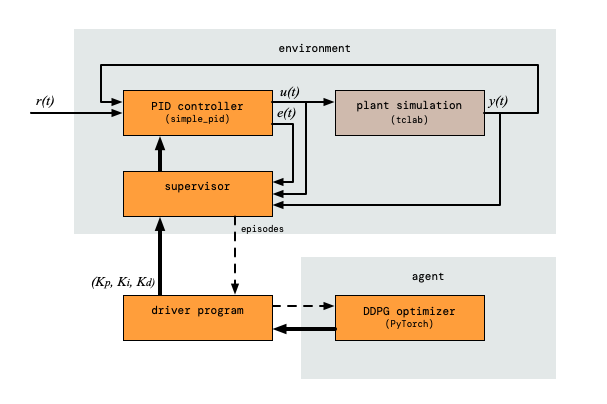
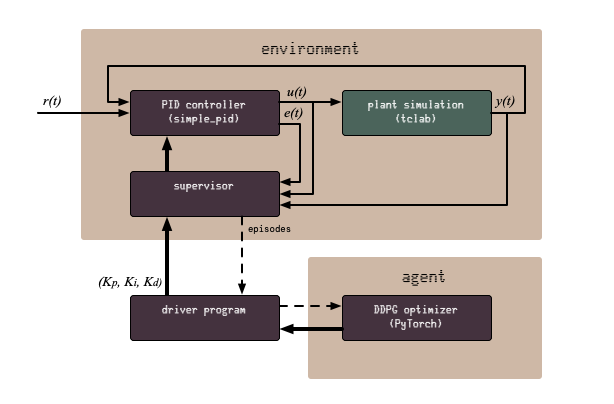
Update documentation with final (for now) findings.

diff --git a/readme.md b/readme.md
@@ -1,15 +1,15 @@
 # Stability Preserving PID Auto-tuner
 Industrial and marine systems use
 [Proportional Integral Derivative controllers (PID)](https://en.wikipedia.org/wiki/PID_controller)
-for a lot of things. They are simple to use and very effective. In spite of
-that, PID controller tuning is an area that still leaves room for improvement.
-In many cases, PIDs are quickly hand-tuned and then left to operate under what
-is likely a suboptimal set of parameters. This makes tuning of PID controllers
-ripe for automation.
+for a lot of things. PID controllers are simple to use and very effective. In
+spite of that, PID controller tuning is an area that still leaves room for
+improvement. In many cases, PIDs are quickly hand-tuned and then left to
+operate under what is likely a suboptimal set of parameters. This makes tuning
+of PID controllers ripe for automation.
 
 There is another reason for continuous tuning. As a system ages, its behaviour
 may change over time. Materials wear and components may be swapped out for
-equivalent, but not identical, replacements.  In an ideal world, all PID
+equivalent, but not identical, replacements. In an ideal world, all PID
 controllers on systems would be periodically re-tuned to compensate for changes
 in response of systems. If not periodically, then at least they should be
 retuned whenever components are replaced. In practice this rarely happens. Even
@@ -22,37 +22,38 @@ based automatic PID controller tuning mechanism. The work of this project is
 heavily based on
 [Stability-preserving automatic tuning of PID control with reinforcement learning](https://arxiv.org/abs/2112.15187)
 by Ayub I. Lakhani, Myisha A. Chowdhury and Qiugang Lu, which is released under
-[CC BY 4.0](https://creativecommons.org/licenses/by/4.0/).  It is also
-[available on Youtube](https://www.youtube.com/watch?v=ymodIJ7yMKo). This work
-will be referred to as "the paper" throughout this project.
+[CC BY 4.0](https://creativecommons.org/licenses/by/4.0/). This work will be
+referred to as "the paper" throughout this project.
 
-There are benefits to using reinforcement learning not to learn the control of a
-system, but rather learn how to tune a PID controller to find the optimal PID
-control for a system. PID controllers are well understood and mathematically
-easy to explain. For systems in environments where human lives are dependent on
-the good operation of systems, the verifiability of the operation of that system
-is very important. Pure RL control would make the control system into a black
-box.  By limiting the scope of RL to PID tuning, the tuning process may be a
-black box, while the resultant control system is still well understood and
-explainable.
+Note that we do not use machine learning to control the plant. Instead, we train
+an agent to provide optimal PID gain values and have a classical PID controller
+control the plant. In machine learning, it is more common to train an agent to
+go all the way, but there are benefits for us not to take that route. PID
+controllers are well understood and mathematically easy to explain. For systems
+in environments where human lives are dependent on the good operation of
+systems, the verifiability of the operation of that system is very important.
+Pure RL control would turn the control system into a black box. By limiting the
+scope of RL to PID tuning, the tuning process may be a black box, but the
+resultant plant controller is well understood and explainable.
 
-In an emergency when the reinforcement learning were to break down, humans can
-still go in, take control and hand-tune the PID controller. This gives engineers
-the option to maintain automatic control under partial systems failure.
+In cases where the reinforcement learning never converges or fails in some other
+way, humans can still go in, and take control and hand-tune the PID controller.
+This gives engineers the option to maintain automatic control under partial
+systems failure.
 
 Finally, reinforcement learning does not tire or get bored. It follows subtle
-changes in system response. Specifically in an environment where energy
+changes in plant response. Specifically in an environment where energy
 conservation is important, well tuned PID controllers can help eek out the last
 few drops of performance.
 
 ---
 ## Flawed Premise
-Of course, the whole premise for this idea is flawed. The reason not to tune PID
-controllers is in part lack of knowledge and in part lack of a real need,
-finished off by the fact that developers choose predictability over performance.
-Making a machine learning based auto-tuner solves none of these. If anything, the
-relative novelty of machine learning for this application will drive developers
-away from using it.
+Of course, the whole premise for the idea that I present in this project is
+flawed. The reason not to tune PID controllers is in part lack of knowledge and
+in part lack of a real need, finished off by the fact that developers choose
+predictability over performance. Making a machine learning based auto-tuner
+solves none of these. If anything, the relative novelty of machine learning for
+this application will drive developers away from using it.
 
 So this tuner either works fully automatically and invisibly in the background,
 or it will never be used.
@@ -61,9 +62,8 @@ So, with that out of the way...
 
 ---
 ## Reading this Document
-
 This document guides you through the process of getting from a no-frills,
-traditional plant control, all the way to an stability-preserving, macbhine
+traditional plant control, all the way to an stability-preserving, machine
 learning, auto-tuning PID control system.
 
 Readers are expected to have basic knowledge of what a PID controller does. You
@@ -75,8 +75,13 @@ PyTorch code.
 Incidentally, if you do fork this repository, pull requests with improvements
 are very much appreciated.
 
-
-We start by setting up plant control; just simulated, PID controlled heater. We then add the stability-preserving supervisor and visualisations. There is nothing magical or machine learning related for these first steps. Just building the test bed for the more advanced steps.
+We start with the [design](#design), giving you an overview of what we are
+working towards, although we do so in smaller steps. We the set up
+[basic plant control](#running-basic-plant-control) with a simulated PID
+controlled heater. We then add the
+[stability-preserving supervisor](#add-stability-preserving-supervisor). There
+is nothing magical or machine learning related for these first steps. Just
+building the test bed for the more advanced steps.
 
 On top of the supervised plant control we add the automated tuning process.
 
@@ -109,8 +114,8 @@ fall-back parameter set.
     <img width="50%" src="images/stability-preserving-pid-autotuner.png"> 
 </p>
 
-The simulated components are shown in a sandy colour, while the orange
-components would also be deployed to a production environment.
+The simulated plant is shown in a green colour, while the brown components would
+also be deployed to a production environment.
 
 Where the diagrams in the paper show tight integration between the optimiser and
 the environment, we keep these separate. The driver program queries the machine
@@ -219,75 +224,115 @@ for the TCLab and for `simple_pid` see
 
 ### Running Basic Plant Control
 Here is how to run the basic plant control. For now, the set-point is just a
-fixed value of 23 $\celsius$.
+fixed value of $23 \celsius$.
 
 The programming is cyclic, just like it would be on a PLC, for example. In fact,
 if you own a TCLab device, you can use this loop to control that. Much as I like
 matrix processing and its efficiency, the matrix programming model does not fit
 the continuous control loop that is common for live systems.
 
-```sh
-(venv) $ python plant_control.py
-```
-
-The episodes are saved under `./episodes/` as Apache Parquet data frames. You
-can load these easily with Panda's for further processing. The program also
-generates an overview plot as a `.png` file in the same directory and with the
-same name as the data frame. These plots may be useful to see what is going on.
-
-The program runs continuously. You can break out of it using `^C`.
-
 If you own a TCLab device, edit the script to set `IS_HARDWARE` to `True` (it
 defaults to `False`). That will make the control loop start controlling the
 actual device.
 
----
-## Add Stability Preserving Supervisor
-The next step is to add the supervisor to the system. This supervisor acts as
-proposed in the paper and replaces the PID parameters with fall-back ones if the
-system appears to be unstable.
+```sh
+(venv) $ python plant_control.py
+```
 
-From reading the paper, the proposed algorithm uses the accumulated error as the
-reward. The proposed reward is the absence of punishment, in a way. This does
-confuse the terms a bit. In reinforcement learning it is customary to talk of
-rewards, while in other machine learning branches it is common to speak of loss
-and squared error. For this project, we assume these are interchangeable and
-apologise for mixing these terms.
+The program runs continuously. You can break out of it using `^C`.
 
-Second, the proposed supervisor algorithm compares the _running_ squared error
-$RR(t)$ in an episode with the _total_ squared error $R_{bmk}$. We expected both
-to be either total or running, but one and the other. In the code below, we
-follow the same pattern: comparing a running error with a total-for-an-episode
-benchmark.
-
-The authors of the the paper propose to base this decision on the cumulative
-error for an episode, but that is useful only for episodes where the set-point
-$r(t)$ does not change. Changing set-points would punish the algorithm for
-something it has no control over. The paper works around this by assuming the
-set-point does not change.
+The episodes are saved under `./episodes/` as
+[Apache Parquet](https://parquet.apache.org/) data frames. You can load these
+easily with Panda's for further processing. To help better understand what is
+the plant and the controller are doing, each episode is plotted in a few graphs.
+You can find these plots under `./episodes`, as mentioned previously. here is an
+example of such a graph, with a few explanatory pointers.
 
 <p align="center" width="100%">
-    <img width="40%" src="images/state-diagram.png"> 
+    <img width="80%" src="images/viz-basic-episode.png"> 
 </p>
+
+The top two graphs are pretty easy to read: they show what the termperatures and
+heaters are doing. The three smaller graphs at the bottom expose the internal
+state of the PID controllers, something you would normally not have access to.
+To be clear: these are not the PID gains or parameter vaiues. They are the
+internal values that the PID controller uses to calculate its output. The PID
+gains do not change during an episode. Well, not for the basic plant control,
+anyway.
+
+---
+## Add Stability Preserving Supervisor
+The supervisor behaves as the paper proposes: monitor the running error and if
+that exceeds a benchmark value, reconfigure the PID controller with known-good,
+fall-back parameters. At the end of each episode, the PID controller is reset
+with a fresh set of PID gains and the supervisor resets the running error.
 
 An alternative might have been to have the baseline controller run alongside the
 operational controller and have the supervisor switch between the two. The
 problem with that is that the supervisor cannot determine $y(t)'$ for the stable
 controller, because its $u(t)'$ is not passed through the plant.
 
+More formally, the running error $RR(t)$ is compared to benchmark error
+$R_{bmk}$. If $RR(t) > R_{bmk}$, the supervisor goes into fall-back state. After
+each $T$ steps, the PID controller goes back to the normal state. The state
+machine is shown below.
+
+<p align="center" width="100%">
+    <img width="40%" src="images/state-diagram.png"> 
+</p>
+
+This is a bit confusing for three reasons: first, the _name_ suggests $RR(t)$ is
+the running reward, but the actual use is that of running error. Second, we
+compare a _running_ total against a _static_ benchmark. Third, in reinforcement
+learning, using a reward is more common than using loss. In the implementation
+we chose to use the same variable names, in spite of them being a little
+confusing. Apologies if that is confusing.
+
 ### Running Supervised Plant Control
-Here is how to run the supervised plant control, with the set-point of 23
-$\celsius$.  The episodes are saved under `./episodes/` as before.
+Here is how to run the supervised plant control, with the set-point of
+$23 \celsius$. The episodes are saved under `./episodes/` as before.
 
 ```sh
 (venv) $ python supervised_plant_control.py
 ```
 
+To get a sense of how the supervisor helps, you can run a completely random
+agent. This agent just generates random values as PID gains and passes them to
+the supervisor to try. As you will see, in the vast majority of cases, the
+supervisor will have to revert the PID to using the fall-back values instead.
+
+```sh
+(venv) $ python random_but_stable_pid_autotuner.py
+```
+
+Again, the data and graphs are saved uner `./episodes`. Below is an example of a
+graph where the supervisor had to step in and revert to known-stable PID values.
+
+<p align="center" width="100%">
+    <img width="80%" src="images/viz-fall-back-state.png"> 
+</p>
+
+In that plot, we can see the supervisor kick in around the $t \approx 230$ mark.
+The beige area signifies that the supervisor is in `STATE_FALLBACK`. As we can
+see from the plots, the heater is driven rather eratically. Once the fall-back
+parameters have been applied, the system settles down again.
+
+In this specific example, we can see that $K_p$ is too large, causing the heater
+to be driven too hard. $K_i$ is working harder and harder to compensate, until
+the supervisor decides the accumulated error is too great and clamps down.
+
+We now have a stable test platform to experiment on. We can experiment with PID
+parameters, without having to worry so much about the system becoming unstable.
+The supervisor works nicely and the graphs give insight in what is going on
+inside the controller. From here, we should start actually tuning.
+
 ---
 ## Auto-tuner
 With the supervisor ready to take over in case the control loop becomes unstable,
 we turn out attention to the auto tuning. As in the paper, we will use
-[Deep Deterministic Policy Gradients (DDPG)](https://www.youtube.com/watch?v=6Yd5WnYls_Y).
+[Deep Deterministic Policy Gradients (DDPG)](https://www.youtube.com/watch?v=6Yd5WnYls_Y),
+adding a simple priming system to make sure the agent starts with a helpful set
+of example data in its replay buffer.
 
 The code is largely copied from our own 
 [PyTorch DDPG Tutorial Implementation](https://github.com/kjkoster/ddpg-continuous-tutorial),
@@ -297,3 +342,23 @@ by
 [Machine Learning with Phil](https://www.youtube.com/@MachineLearningwithPhil).
 
 [DDPG and TD3 (RLVS 2021 version)](https://www.youtube.com/watch?v=0D6a0a1HTtc) by [Olivier Sigaud](https://www.youtube.com/@OlivierSigaud)
+
+You can run the agent as follows. The agent primes the replay buffer with random
+and with fall-back-related PID gain values. This will take almost two days (some
+41 hours) and _after that_ DDPG needs time to learn. Useful results should take
+a week or so of time (sorry).
+
+```sh
+(venv) $ python autotuning_supervised_plant_control.py
+```
+
+Once running, you can plot the progression over the episodes using the plotting
+script.
+
+```sh
+(venv) $ python python plot_learning.py episodes/*.parquet
+```
+
+You can then see the progress of your agent in the generated files
+`learning.png` and learning3d.png`.
+

diff --git a/documentation/iterations.md b/documentation/iterations.md
@@ -60,6 +60,8 @@ After these 500 episodes, the agent is started as normal.
     <img width="30%" src="../images/priming-after-priming.png">
 </p>
 
+Perhaps I should have made the spread of the noise wider.
+
 With the priming done, the agent is once again set free. It does give the impresstion of learning properly this time.. This is shown as the red splotch around the blue, probably-optimal cluster. The agent seems prone to over-estimation, which I am told is a weakness of DDPG.
 
 <p align="center" width="100%">
